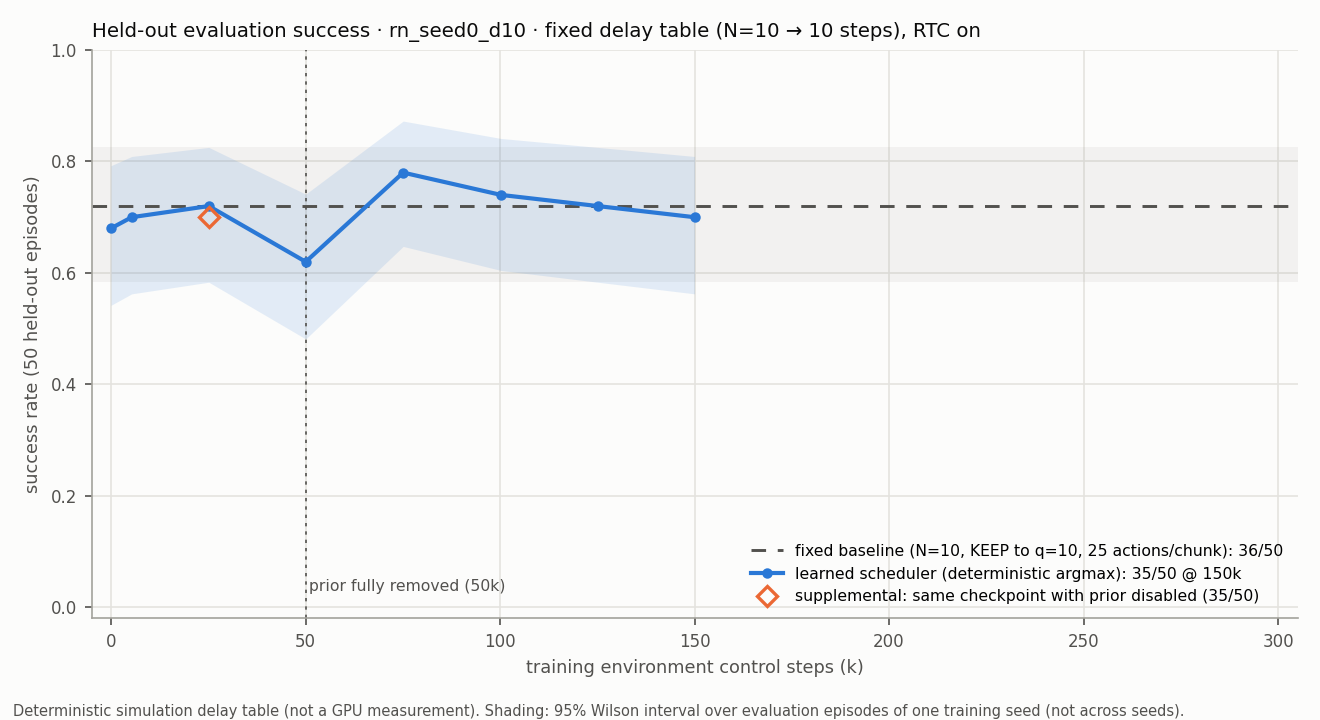
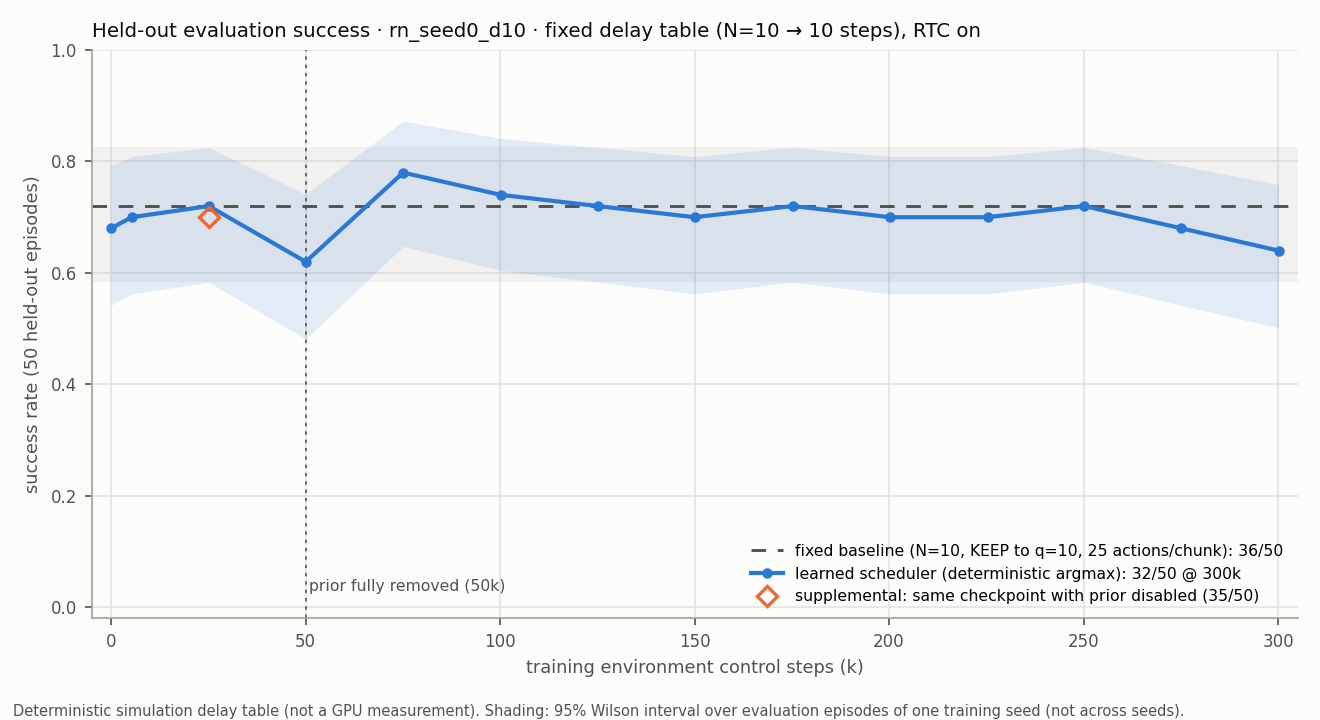
SCH-01 v2: seed-0 online run complete (300,155 steps; final 32/50 vs fixed 36/50); figures, STATUS, assessment

Changed region(s): [[0.528, 0.1833, 0.9939, 0.4583]]

diff --git a/experiments/scheduling/fixed_delay10_v2/STATUS.md b/experiments/scheduling/fixed_delay10_v2/STATUS.md
@@ -1,6 +1,6 @@
 # STATUS — SCH-01 fixed_delay10_v2
 
-_Last updated 2026-10-29 01:35 EDT._ gpu-debug only; ≤5 jobs for this request. Simulation timing = deterministic table.
+_Last updated 2026-10-29 06:15 EDT._ **Stage 1 and Stage 2 (seed 0, 300k) complete.** gpu-debug only; ≤5 jobs for this request. Simulation timing = deterministic table.
 
 ## Done
 - Legacy 7-step-budget experiment archived ([../LEGACY_BUDGET7.md](../LEGACY_BUDGET7.md)): final progress 50,120 steps;
@@ -44,6 +44,52 @@ effect. Two paired replicates on baseline-solved states cannot establish a benef
 | 100,247 | 37 | 0.68 | |
 | 125,116 | 36 | 0.52 | |
 | **150,000** | **35** | 0.48 | **milestone saved** (`ckpt/milestone_0150000`, 38,347 replay rows) |
+| 175,264 | 36 | 0.22 | |
+| 200,252 | 35 | 0.48 | |
+| 225,337 | 35 | 0.40 | |
+| 250,150 | 36 | 0.19 | |
+| 275,165 | 34 | 0.18 | |
+| **300,155** | **32** | 0.07 | final (run DONE) |
 
-Segments: 8764519 (0 → 50,055), 8764520 (→ 114,806), 8764681 (→ 175,264), each exit 3 = checkpointed after ~51 min;
-8764850 running; 8764852+ queued (≤ 2 jobs at a time).
+Segments (all gpu-debug, A100, one writer): 8764519 (0 → 50,055), 8764520 (→ 114,806), 8764681 (→ 175,264,
+incl. 150k milestone), 8764850 (→ 243,444), 8765095 (→ 300,155), each exit 3 = checkpointed after 50.7–51.7 min;
+8765331 (6.6 min: final 300k evaluation, DONE). Totals: 942 training episodes (650 successful), 295,155 gradient
+updates (294,899 with the actor on), 59,907 scheduler decisions, 26,081 inference requests.
+
+### Learned behaviour (held-out evaluations, means per episode)
+
+| | fixed baseline | learned @25k | @150k | @300k |
+|---|---|---|---|---|
+| successes / 50 | 36 | 36 | 35 | 32 |
+| selected N | 10.0 | 7.96 | 7.68 | 7.34 |
+| R (old actions after the decision) | 10.0 | 10.69 | 10.44 | 9.36 |
+| launch phase p | 15.0 | 4.06 | 1.49 | 0.11 |
+| old actions executed per chunk | 25.0 | 14.75 | 11.93 | 9.47 |
+| observation age at handoff (steps) | 10.0 | 10.69 | 10.44 | 9.36 |
+| inference calls / 1,000 steps | 39.6 | 68.4 | 86.0 | 107.4 |
+| modeled inference ms / 1,000 steps | 7,914 | 12,522 | 15,206 | 18,455 |
+| underrun steps | 0 | 0 | 0 | 0 |
+
+Training-episode success (stochastic): 0.66 (0–50k, 154 episodes), 0.72 (50–150k, 319), 0.68 (150–300k, 469).
+
+### Assessment
+The scheduler learned a consistent, very different policy — request a new chunk almost immediately after each
+handoff (p → 0), with fewer denoising steps (N ≈ 7–8) and R ≈ 10, so each chunk executes ~10 instead of 25 actions
+and inference calls rise ~2.7× — but **held-out success did not improve**: 31–39/50 across checkpoints versus 36/50
+for the fixed baseline, ending at 32/50. All differences are within the 50-episode binomial uncertainty (one training
+seed); the step-0 evaluation of an identical schedule already differed by 2 episodes (34 vs 36) through renderer
+non-determinism. With zero GPU-cost penalty and a tiny per-step time penalty, frequent replanning is nearly free in
+the reward, so the learned preference for it is not evidence of better control. The Stage 1 diagnostic (ceiling-
+limited, ~3-step earlier success for early replacement, three −0.5 cells) is consistent with "no clear success
+advantage" in unperturbed ALOHA Transfer Cube.
+
+### Limitations
+One training seed; 50 evaluation episodes per point (Wilson intervals are over episodes, not seeds); simulation delay
+table rather than measured latency, idealised scheduler overhead; unperturbed task with a strong baseline (72 %);
+the diagnostic used 2 replicates on states both source episodes already solved. Recovery-rule states (q < 10) occur
+only after departures (1,214 in training, 1–283 per evaluation); none under the fixed baseline. Measured RTC wall time is
+logged per request (`wall_s`) but never advances the simulator.
+
+### Figures
+`results/online/rn_seed0_d10/eval_success.png` (+ .svg), `training_success.png`, `schedule.png`, `timing_compute.png`;
+CSV/JSONL `evals.csv`, `evals_raw.jsonl`. Diagnostic: `results/diagnostic/diag_v2_coarse/`.
